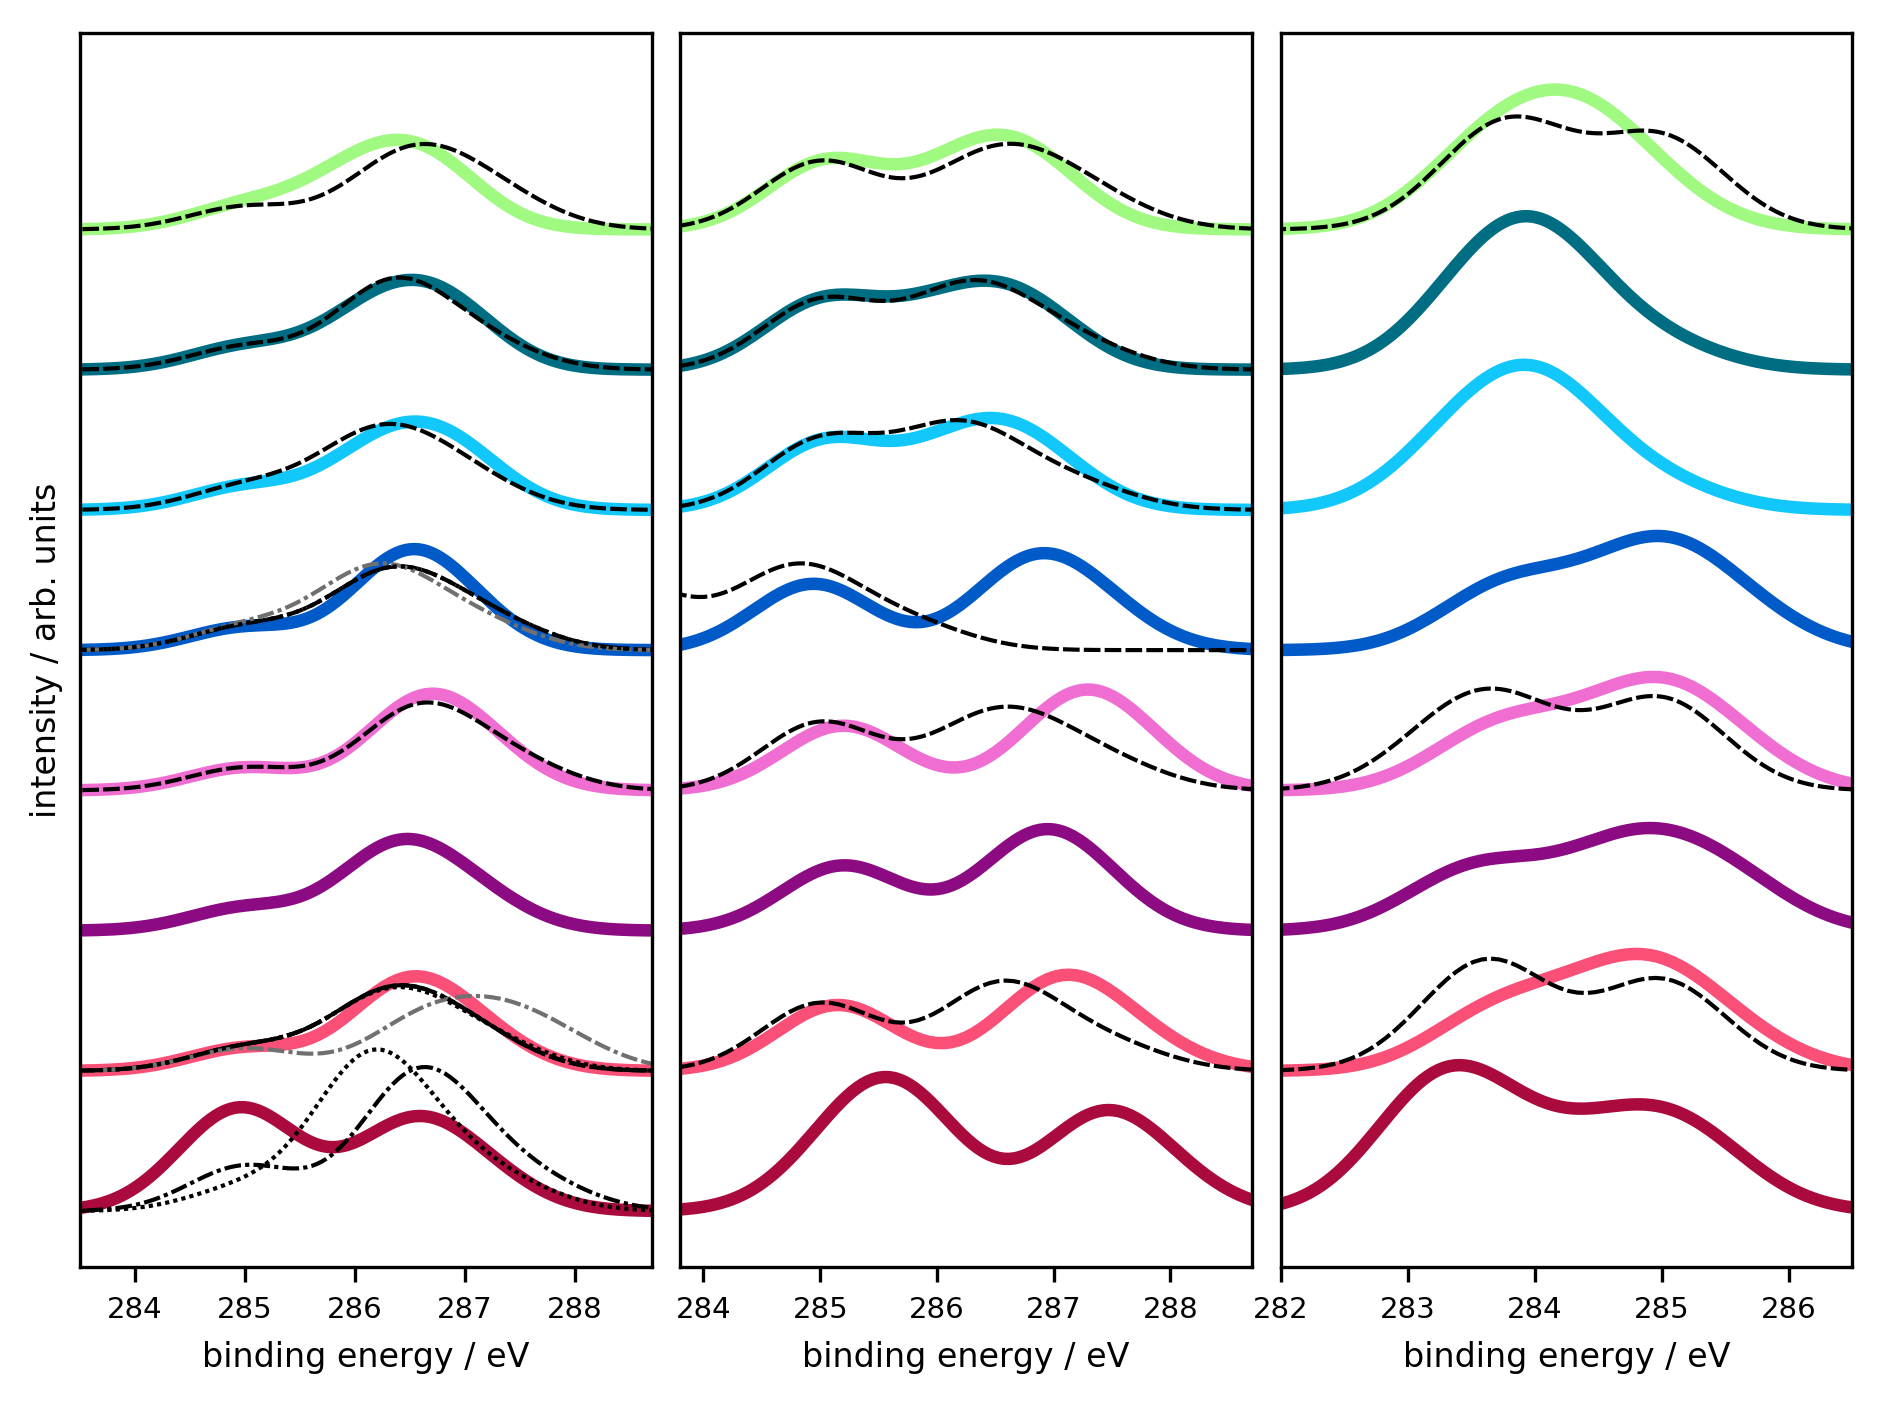
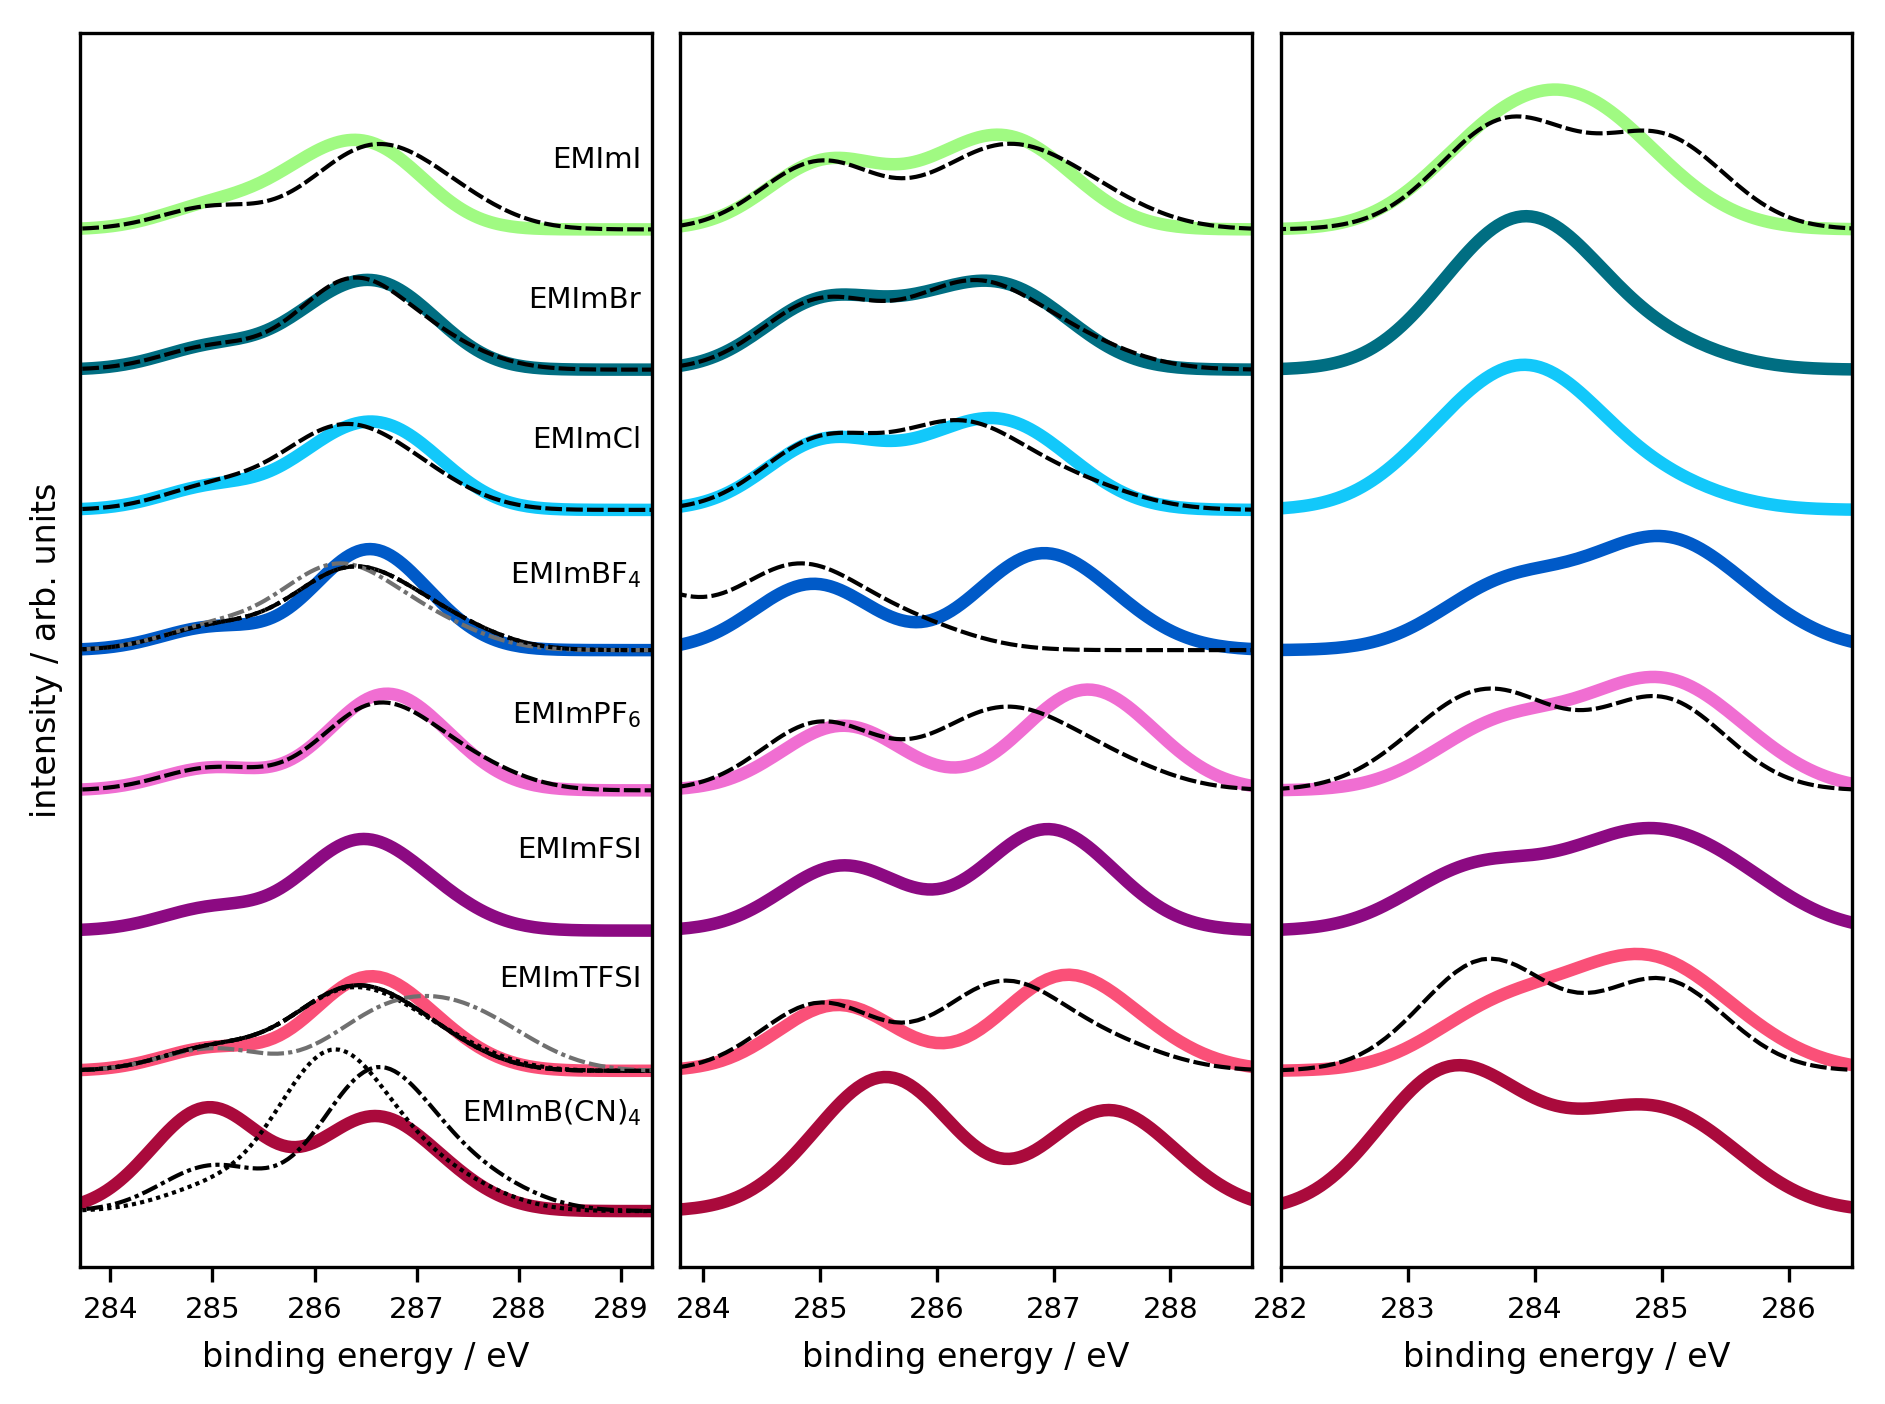
Added legend

diff --git a/figure4_merged.py b/figure4_merged.py
@@ -176,12 +176,25 @@ nr = [1]
 filename = '_Reinmoller'
 plotFinalSpectra(namelist2, nr, 1.0, [4,1,4,1,1,1,1,1], black,ax0)
 
-ax0.set_xlim(283.5,288.7)
-ax0.set_xticks([284,285,286,287,288])
+ax0.set_xlim(283.7,289.3)
+ax0.set_xticks([284,285,286,287,288,289])
 ax0.tick_params(axis='both', which='both', labelsize=7)
 
 #* Figure 3 done
 
+#* Text legends
+scale = 6.25
+legends = [ [289.2,  4, r"EMImB(CN)$_{4}$"],
+			[289.2, 10, r"EMImTFSI"],
+			[289.2, 15.75, r"EMImFSI"],
+			[289.2, 21.75, r"EMImPF$_{6}$"],
+			[289.2, 28, r"EMImBF$_{4}$"],
+			[289.2, 34.0, r"EMImCl"],
+			[289.2, 40.25, r"EMImBr"],
+			[289.2, 46.5, r"EMImI"]]
+
+for item in legends:
+	ax0.text(*item, horizontalalignment='right', rotation=0, size=7, color='k')
 
 
 #plt.title(r"%s %s1s XPS spectra" % ('EMIm cation', atom))
